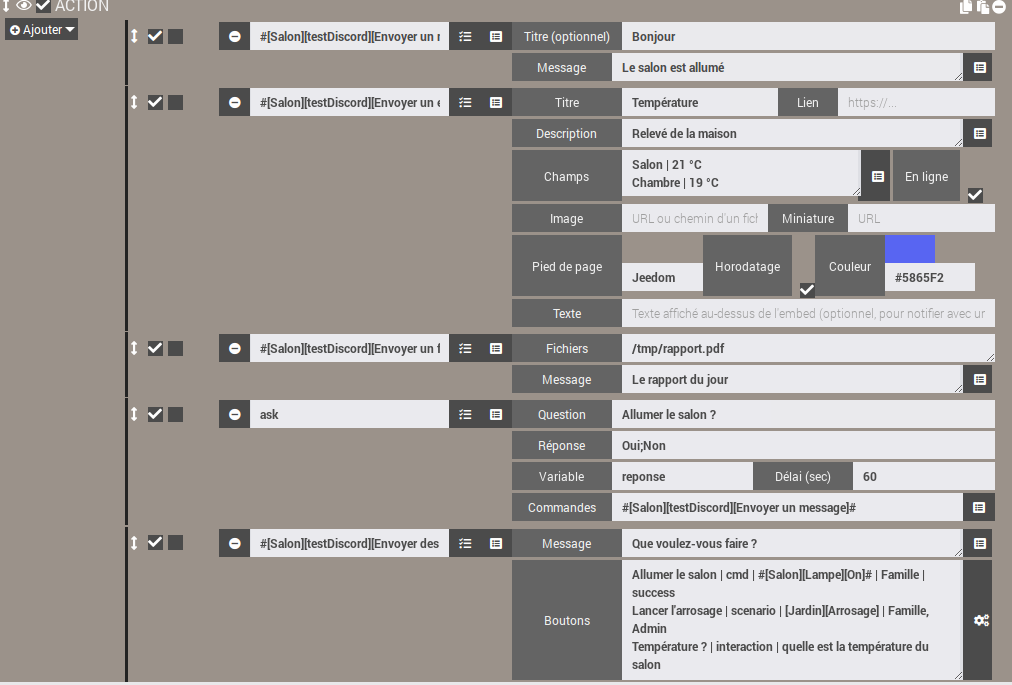
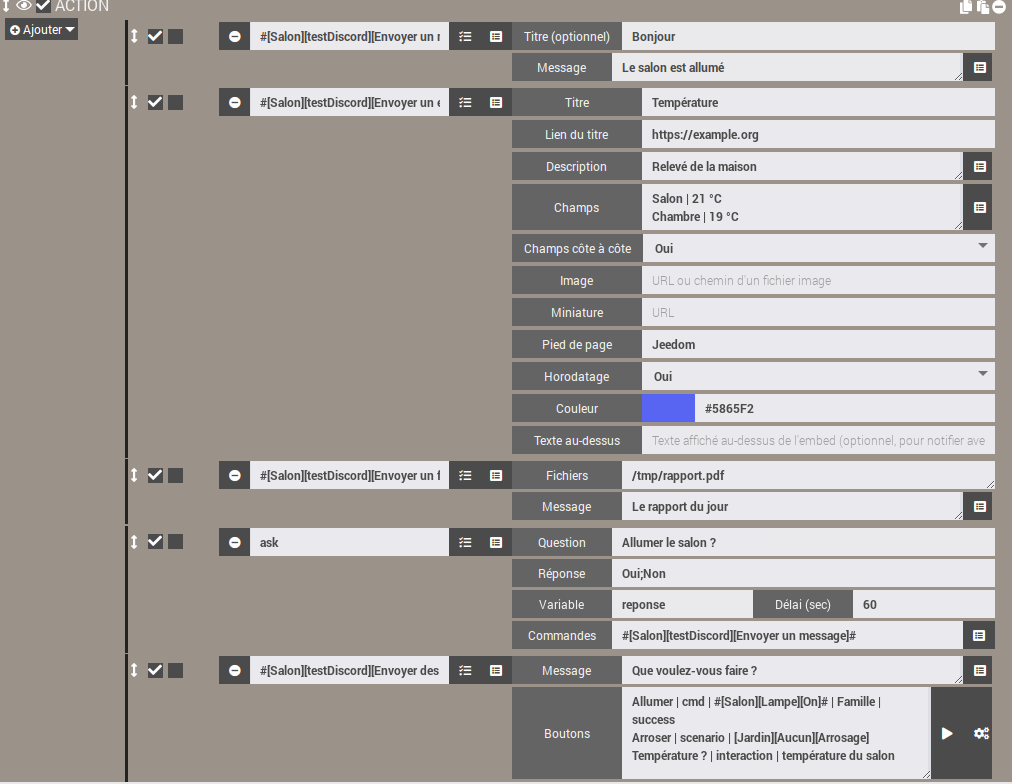
Formulaire d'embed des scénarios redessiné : un champ par ligne, libellés alignés, listes Oui/Non

diff --git a/core/template/scenario/cmd.action.message.jeediscordEmbed.html b/core/template/scenario/cmd.action.message.jeediscordEmbed.html
@@ -1,57 +1,72 @@
 <!--template/scenario/cmd.action.message.jeediscordEmbed (plugin jeediscord)-->
 	<div class="input-group input-group-sm" style="width:100%">
-		<span class="input-group-addon roundedLeft" style="width:110px">{{Titre}}</span>
-		<input class="expressionAttr form-control input-sm" data-l1key="options" data-l2key="title" value="#title#" data-uid="#uid#" placeholder="{{Titre de l'embed}}">
-		<span class="input-group-addon" style="width:60px">{{Lien}}</span>
+		<span class="input-group-addon roundedLeft" style="width:130px">{{Titre}}</span>
+		<input class="expressionAttr form-control input-sm roundedRight" data-l1key="options" data-l2key="title" value="#title#" data-uid="#uid#" placeholder="{{Titre de l'embed}}">
+	</div>
+	<div class="input-group input-group-sm" style="width:100%;padding-top:2px">
+		<span class="input-group-addon roundedLeft" style="width:130px">{{Lien du titre}}</span>
 		<input class="expressionAttr form-control input-sm roundedRight" data-l1key="options" data-l2key="url" value="#url#" data-uid="#uid#" placeholder="https://...">
 	</div>
-	<div class="input-group input-group-sm" style="width:100%;padding-top:1px">
-		<span class="input-group-addon roundedLeft" style="width:110px">{{Description}}</span>
-		<textarea class="expressionAttr form-control ta_autosize" data-l1key="options" data-l2key="message" rows="2" style="resize:vertical" data-uid="#uid#" placeholder="{{Texte principal}} (@{pseudo}, @&amp;{rôle}, #{salon})">#message#</textarea>
+	<div class="input-group input-group-sm" style="width:100%;padding-top:2px">
+		<span class="input-group-addon roundedLeft" style="width:130px">{{Description}}</span>
+		<textarea class="expressionAttr form-control ta_autosize" data-l1key="options" data-l2key="message" rows="3" style="resize:vertical" data-uid="#uid#" placeholder="{{Texte principal}} (@{pseudo}, @&amp;{rôle}, #{salon})">#message#</textarea>
 		<span class="input-group-addon hasBtn roundedRight">
 			<button class="btn btn-default roundedRight jeediscordListCmd" type="button" title="{{Sélectionner une commande}}" data-uid="#uid#" data-target="message"><i class="fas fa-list-alt"></i></button>
 		</span>
 	</div>
-	<div class="input-group input-group-sm" style="width:100%;padding-top:1px">
-		<span class="input-group-addon roundedLeft" style="width:110px">{{Champs}}</span>
-		<textarea class="expressionAttr form-control ta_autosize" data-l1key="options" data-l2key="fields" rows="1" style="resize:vertical" data-uid="#uid#" placeholder="{{Un champ par ligne : Nom | Valeur}}">#fields#</textarea>
-		<span class="input-group-addon hasBtn">
-			<button class="btn btn-default jeediscordListCmd" type="button" title="{{Sélectionner une commande}}" data-uid="#uid#" data-target="fields"><i class="fas fa-list-alt"></i></button>
+	<div class="input-group input-group-sm" style="width:100%;padding-top:2px">
+		<span class="input-group-addon roundedLeft" style="width:130px">{{Champs}}</span>
+		<textarea class="expressionAttr form-control ta_autosize" data-l1key="options" data-l2key="fields" rows="2" style="resize:vertical" data-uid="#uid#" placeholder="{{Un champ par ligne : Nom | Valeur}}">#fields#</textarea>
+		<span class="input-group-addon hasBtn roundedRight">
+			<button class="btn btn-default roundedRight jeediscordListCmd" type="button" title="{{Sélectionner une commande}}" data-uid="#uid#" data-target="fields"><i class="fas fa-list-alt"></i></button>
 		</span>
-		<span class="input-group-addon" title="{{Afficher les champs côte à côte}}">{{En ligne}}</span>
-		<input type="checkbox" class="expressionAttr" data-l1key="options" data-l2key="fieldsInline" data-uid="#uid#" style="margin:0 8px">
 	</div>
-	<div class="input-group input-group-sm" style="width:100%;padding-top:1px">
-		<span class="input-group-addon roundedLeft" style="width:110px">{{Image}}</span>
-		<input class="expressionAttr form-control input-sm" data-l1key="options" data-l2key="image" value="#image#" data-uid="#uid#" placeholder="{{URL ou chemin d'un fichier image}}">
-		<span class="input-group-addon" style="width:80px">{{Miniature}}</span>
+	<div class="input-group input-group-sm" style="width:100%;padding-top:2px">
+		<span class="input-group-addon roundedLeft" style="width:130px">{{Champs côte à côte}}</span>
+		<select class="expressionAttr form-control input-sm roundedRight" data-l1key="options" data-l2key="fieldsInline" data-uid="#uid#">
+			<option value="0">{{Non}}</option>
+			<option value="1">{{Oui}}</option>
+		</select>
+	</div>
+	<div class="input-group input-group-sm" style="width:100%;padding-top:2px">
+		<span class="input-group-addon roundedLeft" style="width:130px">{{Image}}</span>
+		<input class="expressionAttr form-control input-sm roundedRight" data-l1key="options" data-l2key="image" value="#image#" data-uid="#uid#" placeholder="{{URL ou chemin d'un fichier image}}">
+	</div>
+	<div class="input-group input-group-sm" style="width:100%;padding-top:2px">
+		<span class="input-group-addon roundedLeft" style="width:130px">{{Miniature}}</span>
 		<input class="expressionAttr form-control input-sm roundedRight" data-l1key="options" data-l2key="thumbnail" value="#thumbnail#" data-uid="#uid#" placeholder="{{URL}}">
 	</div>
-	<div class="input-group input-group-sm" style="width:100%;padding-top:1px">
-		<span class="input-group-addon roundedLeft" style="width:110px">{{Pied de page}}</span>
-		<input class="expressionAttr form-control input-sm" data-l1key="options" data-l2key="footer" value="#footer#" data-uid="#uid#">
-		<span class="input-group-addon" title="{{Ajoute la date et l'heure d'envoi}}">
-			{{Horodatage}}
-		</span>
-		<input type="checkbox" class="expressionAttr" data-l1key="options" data-l2key="timestamp" data-uid="#uid#" style="margin:0 8px">
-		<span class="input-group-addon" style="width:70px">{{Couleur}}</span>
-		<input type="color" class="form-control input-sm jeediscordColorPicker" data-uid="#uid#" style="width:50px">
-		<input class="expressionAttr form-control input-sm roundedRight" data-l1key="options" data-l2key="color" value="#color#" data-uid="#uid#" style="width:90px" placeholder="{{Défaut}}">
+	<div class="input-group input-group-sm" style="width:100%;padding-top:2px">
+		<span class="input-group-addon roundedLeft" style="width:130px">{{Pied de page}}</span>
+		<input class="expressionAttr form-control input-sm roundedRight" data-l1key="options" data-l2key="footer" value="#footer#" data-uid="#uid#">
 	</div>
-	<div class="input-group input-group-sm" style="width:100%;padding-top:1px">
-		<span class="input-group-addon roundedLeft" style="width:110px">{{Texte}}</span>
+	<div class="input-group input-group-sm" style="width:100%;padding-top:2px">
+		<span class="input-group-addon roundedLeft" style="width:130px">{{Horodatage}}</span>
+		<select class="expressionAttr form-control input-sm roundedRight" data-l1key="options" data-l2key="timestamp" data-uid="#uid#">
+			<option value="0">{{Non}}</option>
+			<option value="1">{{Oui}}</option>
+		</select>
+	</div>
+	<div class="input-group input-group-sm" style="width:100%;padding-top:2px">
+		<span class="input-group-addon roundedLeft" style="width:130px">{{Couleur}}</span>
+		<input type="color" class="form-control input-sm cursor jeediscordColorPicker" data-uid="#uid#" style="width:15%;display:inline-block;padding:2px 4px">
+		<input class="expressionAttr form-control input-sm roundedRight" data-l1key="options" data-l2key="color" value="#color#" data-uid="#uid#" style="width:85%" placeholder="{{Par défaut : couleur de l'équipement}}">
+	</div>
+	<div class="input-group input-group-sm" style="width:100%;padding-top:2px">
+		<span class="input-group-addon roundedLeft" style="width:130px">{{Texte au-dessus}}</span>
 		<input class="expressionAttr form-control input-sm roundedRight" data-l1key="options" data-l2key="content" value="#content#" data-uid="#uid#" placeholder="{{Texte affiché au-dessus de l'embed (optionnel, pour notifier avec une mention)}}">
 	</div>
 <script>
 	(function() {
 		var uid = '#uid#'
-		// Pas de conteneur ni de label autour des cases : le core ne lit que les champs situés à 3 niveaux au plus sous l'action
+		// Pas de conteneur : le core ne lit que les champs situés à 3 niveaux au plus sous l'action
 		var root = document.querySelector('.expressionAttr[data-l2key="title"][data-uid="' + uid + '"]').closest('.expressionOptions')
 		// Options jamais renseignées : le core laisse le marqueur #option# en place
 		root.querySelectorAll('.expressionAttr[data-l1key="options"]').forEach(function(el) {
 			var key = el.getAttribute('data-l2key')
-			if (el.type == 'checkbox') {
-				el.checked = ({ fieldsInline: '#fieldsInline#', timestamp: '#timestamp#' })[key] == '1'
+			if (el.tagName == 'SELECT') {
+				var saved = ({ fieldsInline: '#fieldsInline#', timestamp: '#timestamp#' })[key]
+				el.value = (saved == '1' || saved == 'true') ? '1' : '0'
 			} else if (el.value == '#' + key + '#') {
 				el.value = ''
 			}

diff --git a/docs/fr_FR/index.md b/docs/fr_FR/index.md
@@ -124,14 +124,14 @@ Cette commande accepte aussi les fichiers transmis par Jeedom : rapports génér
 
 ## Envoyer un embed
 
-Dans un scénario, la commande affiche un formulaire dédié :
+Dans un scénario, la commande affiche un formulaire dédié, avec un champ par ligne :
 
-- **Titre** et **Lien** : le lien rend le titre cliquable ;
+- **Titre** et **Lien du titre** : le lien rend le titre cliquable ;
 - **Description** : texte principal (4096 caractères maximum) ;
-- **Champs** : un champ par ligne, sous la forme `Nom | Valeur` (25 champs maximum). Cochez **En ligne** pour les afficher côte à côte ;
+- **Champs** : un champ par ligne, sous la forme `Nom | Valeur` (25 champs maximum). **Champs côte à côte** (Oui ou Non) les affiche en colonnes ;
 - **Image** : adresse web d'une image, ou chemin d'un fichier image sur Jeedom, qui est alors joint au message. **Miniature** : adresse web d'une petite image affichée en haut à droite ;
-- **Pied de page**, **Horodatage** (date et heure d'envoi) et **Couleur** (sinon, la couleur de l'équipement) ;
-- **Texte** : texte affiché au-dessus de l'embed. Les mentions placées dans un embed ne déclenchent pas de notification : placez-les ici pour prévenir quelqu'un.
+- **Pied de page** ; **Horodatage** (Oui : date et heure d'envoi) ; **Couleur** (le sélecteur ou un code `#RRGGBB`, sinon la couleur de l'équipement) ;
+- **Texte au-dessus** : texte affiché au-dessus de l'embed. Les mentions placées dans un embed ne déclenchent pas de notification : placez-les ici pour prévenir quelqu'un.
 
 Les textes trop longs sont raccourcis pour respecter les limites de Discord (6000 caractères au total par embed).
 

diff --git a/docs/fr_FR/changelog.md b/docs/fr_FR/changelog.md
@@ -28,6 +28,7 @@
 - Correction : le nom de l'objet (résumé d'un objet) et l'âge (nettoyage du salon) s'effaçaient à la réouverture d'un scénario
 - Documentation : procédure détaillée d'envoi des captures du plugin Caméra
 - Envoi de fichiers : une adresse web (http, https) peut remplacer le chemin d'un fichier ; elle est téléchargée dans le dossier temporaire avant l'envoi (sous le nom `sendDiscord.<extension>`), puis supprimée
+- Formulaire « Envoyer un embed » des scénarios redessiné : un champ par ligne, libellés alignés, listes Oui / Non à la place des cases à cocher
 - Documentation : présentation des fonctionnalités, section de dépannage, noms réels des paramètres des commandes slash
 - Correction : les valeurs par défaut de la configuration (port du démon, commandes slash...) n'étaient pas enregistrées à l'installation
 - Réception des messages (contenu, auteur, pièces jointes) et des réactions (emoji, auteur, ajout ou retrait)
